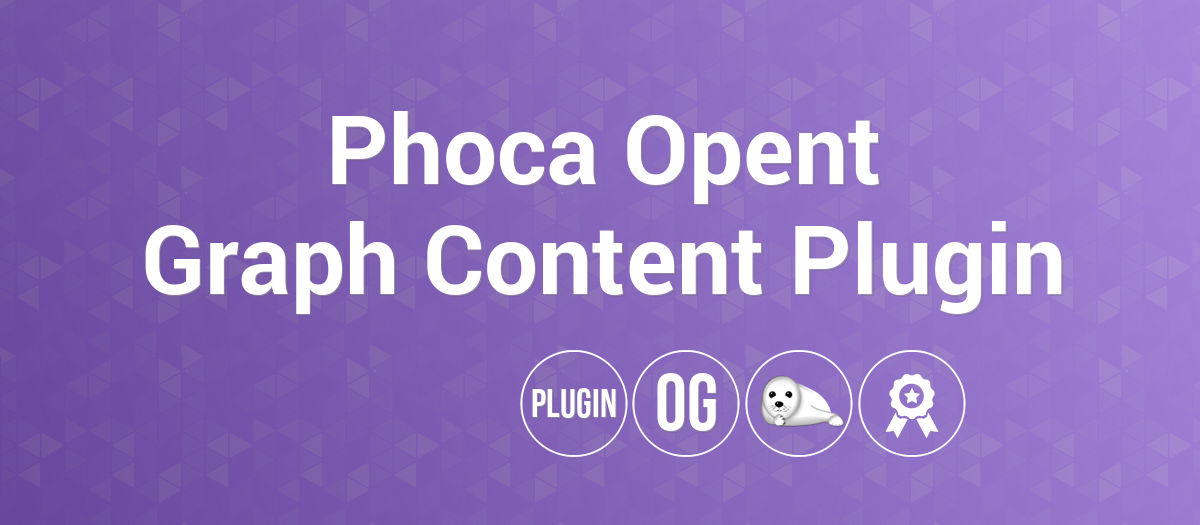
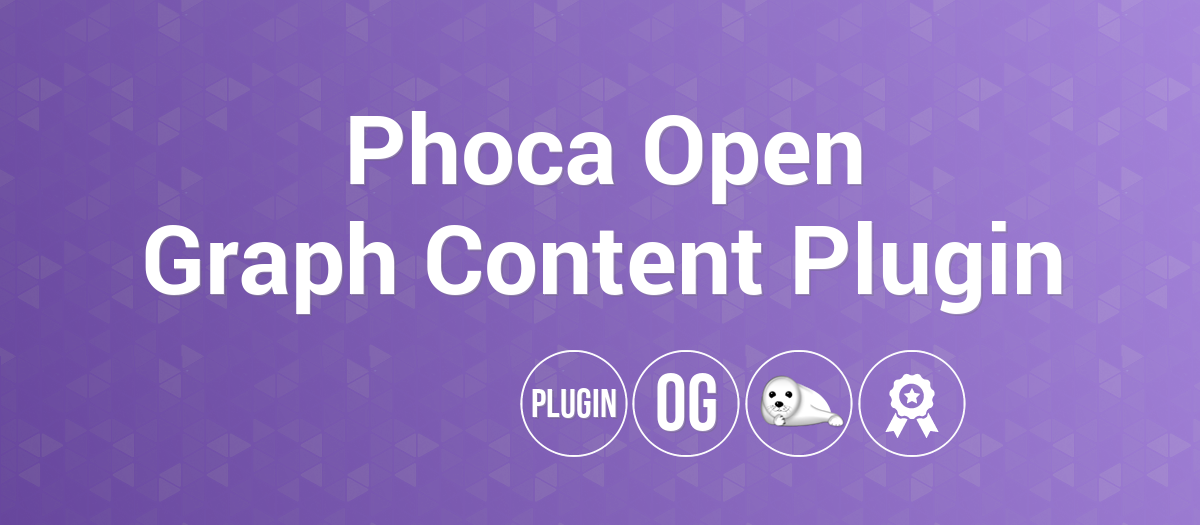
3.1.3
3.1.3

Changed region(s): [[0.2775, 0.2133, 0.74, 0.3962]]

diff --git a/README.MD b/README.MD
@@ -2,9 +2,9 @@
 
 
 
-![Phoca Opent Graph Content Plugin](https://github.com/PhocaCz/PhocaOpenGraphPlugin/blob/master/phocaopengraph.png)
+![Phoca Open Graph Content Plugin](https://github.com/PhocaCz/PhocaOpenGraphPlugin/blob/master/phocaopengraph.png)
 
-# Phoca Opent Graph Content Plugin
+# Phoca Open Graph Content Plugin
 
 
 
@@ -14,7 +14,7 @@ Phoca Open Graph Content Plugin is a Joomla! CMS Plugin. It adds open graph info
 
 ## Project page
 
-[Phoca Opent Graph Content Plugin](https://www.phoca.cz/phoca-open-graph-plugin)
+[Phoca Open Graph Content Plugin](https://www.phoca.cz/phoca-open-graph-plugin)
 
 
 
